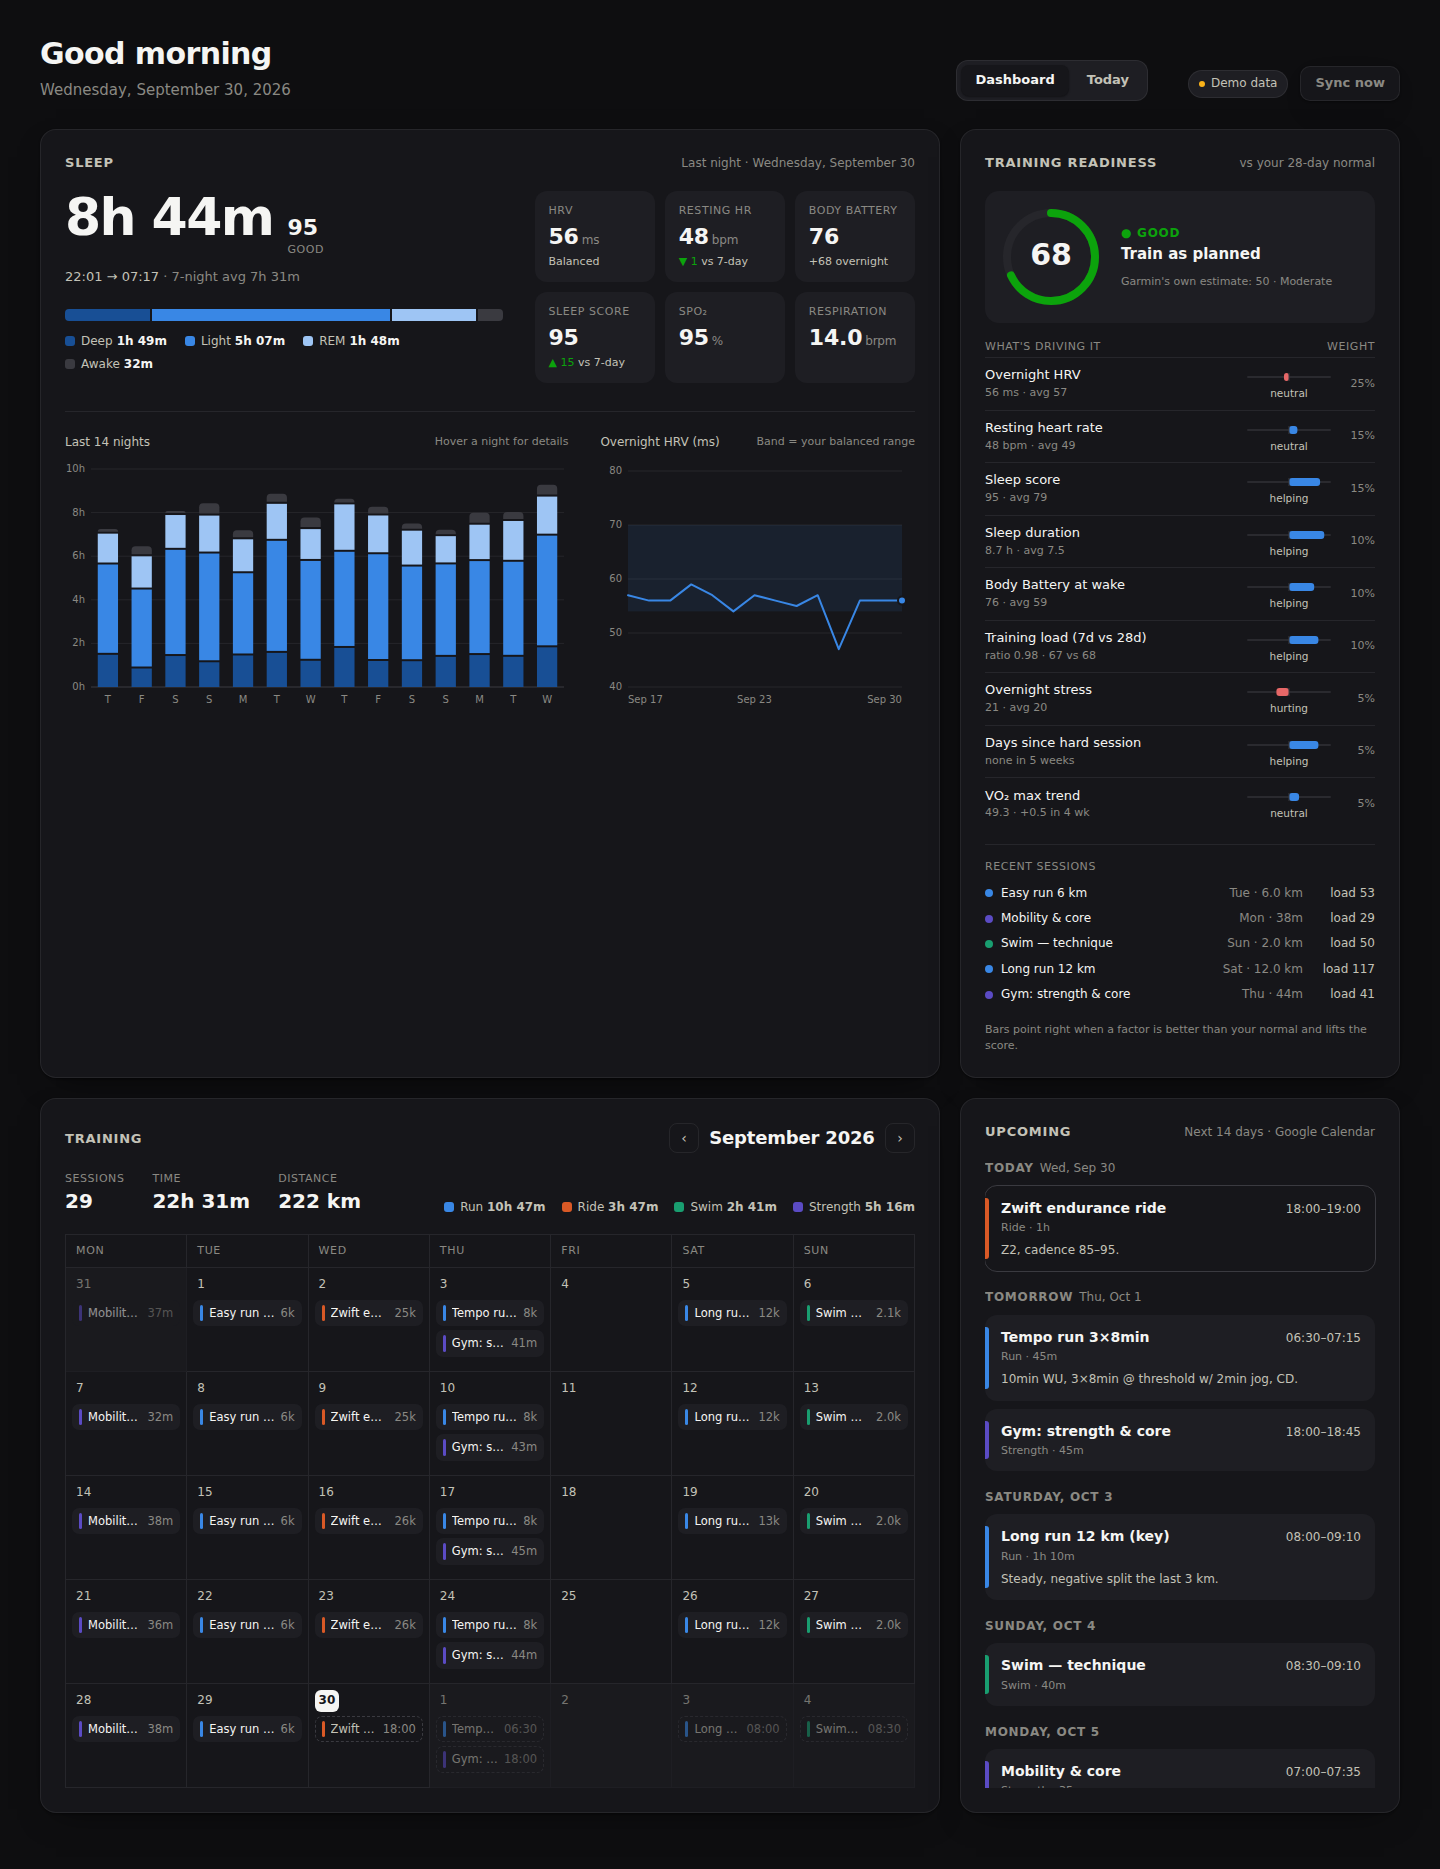
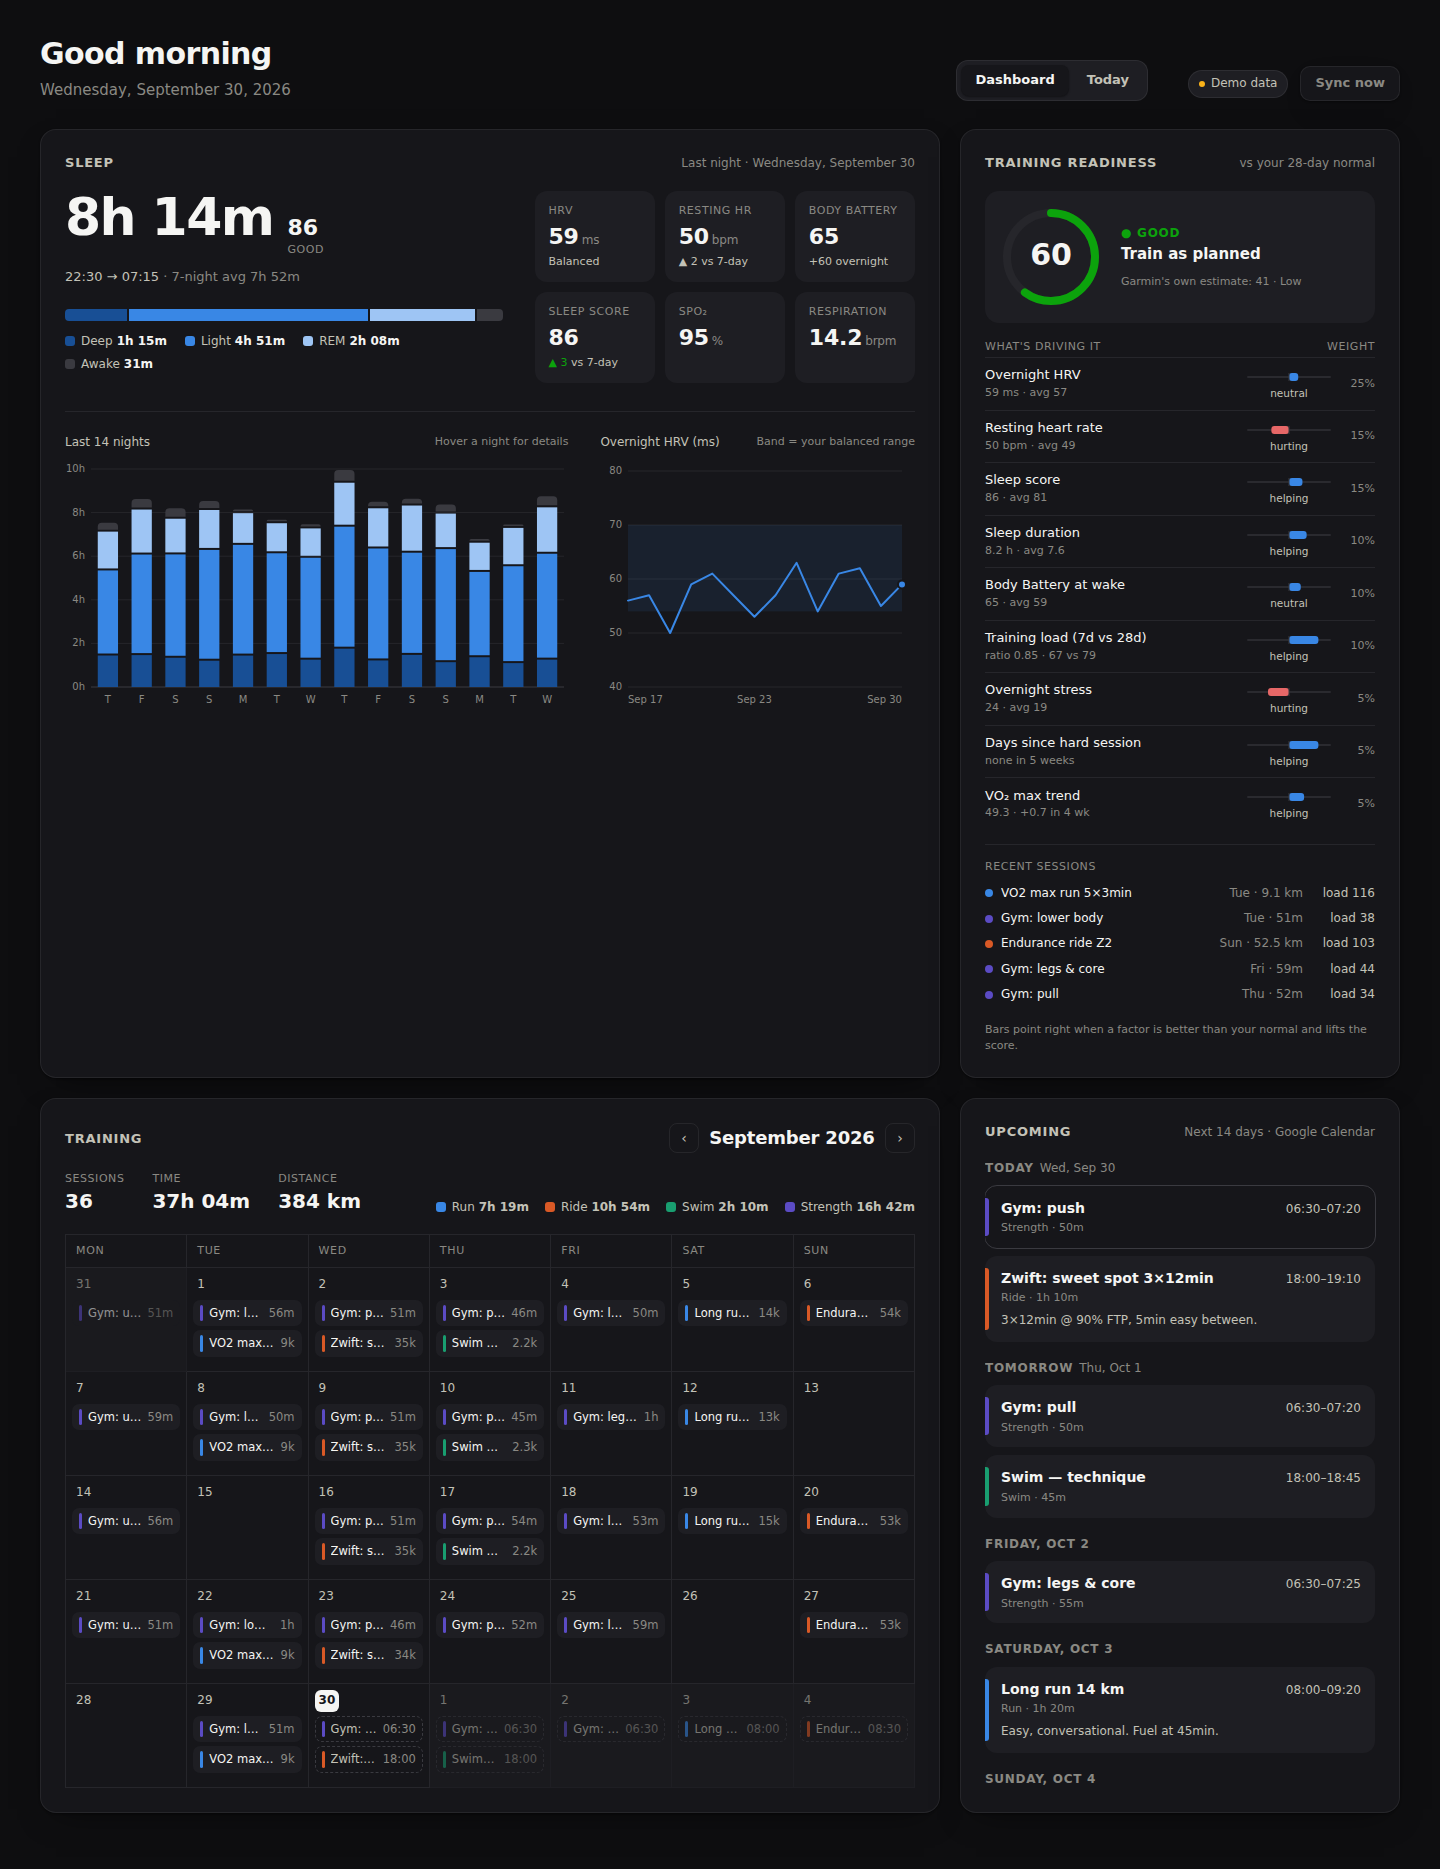
Personal weekly goals and quality-only key sessions
- goals.json: min 5 gym, 2 runs, 2 bike, 1 swim, 5 study sessions per week;
  scheduled sessions later in the week count toward "on track".
- Key sessions are now tempo / threshold / VO2 max / interval runs and
  structured bike sessions (sweet spot, FTP, over-unders, NxM reps); base
  sessions, swims and gym never count. A star in the title still overrides.
- Demo week reflects the new training pattern.

Claude-Session: https://claude.ai/code/session_01FaeG5KvLLdAzK14UMshkEA

diff --git a/frontend/src/components/DayTimeline.tsx b/frontend/src/components/DayTimeline.tsx
@@ -183,11 +183,16 @@ export function DayTimeline({
       )}
 
       <div className="timeline" style={{ height: (endH - startH) * HOUR_PX }}>
-        {hours.map((h) => (
-          <div key={h} className="hour" style={{ top: (h - startH) * HOUR_PX }}>
-            <span className="tnum">{String(h).padStart(2, "0")}:00</span>
-          </div>
-        ))}
+        {hours.map((h) => {
+          const top = (h - startH) * HOUR_PX;
+          // Hide the hour label when the "now" marker would sit on top of it.
+          const clash = day === todayIso && Math.abs(y(nowIso) - top) < 14;
+          return (
+            <div key={h} className="hour" style={{ top }}>
+              {!clash && <span className="tnum">{String(h).padStart(2, "0")}:00</span>}
+            </div>
+          );
+        })}
         <div className="lanes">
           {blocks.map((b) => {
             const top = y(b.start);

diff --git a/frontend/src/components/WeeklyChecklist.tsx b/frontend/src/components/WeeklyChecklist.tsx
@@ -79,7 +79,7 @@ export function WeeklyChecklist({
                 {!manual && <Progress g={g} />}
                 <div className="g-status" style={{ color: st.color }}>
                   <span aria-hidden>{st.icon}</span> {st.label}
-                  {g.planned > 0 && !g.done && <span className="muted"> · {fmt(g.planned)} {g.unit} still scheduled</span>}
+                  {g.planned > 0 && !g.done && <span className="muted"> · {fmt(g.planned)} {g.planned === 1 ? g.unit.replace(/s$/, "") : g.unit} still scheduled</span>}
                   {manual && !g.done && <span className="muted"> · tick it yourself</span>}
                 </div>
               </div>

diff --git a/backend/app/demo.py b/backend/app/demo.py
@@ -13,16 +13,19 @@ from typing import Any
 
 from .store import Store
 
-# A typical training week. weekday -> [(typeKey, title, (h, m), minutes, km, load)]
+# Weekly pattern: gym Mon-Fri, 2 runs, 2 rides, 1 swim; two quality (key) sessions.
+# weekday -> [(typeKey, title, (h, m), minutes, km, load)]
 _WEEK_PLAN: list[list[tuple]] = [
-    [("strength_training", "Mobility & core", (7, 0), 35, None, 25)],
-    [("running", "Easy run 6 km", (6, 30), 36, 6.0, 55)],
-    [("road_biking", "Zwift endurance ride", (18, 0), 60, 26.0, 70)],
-    [("running", "Tempo run 3×8min", (6, 30), 45, 8.0, 110),
-     ("strength_training", "Gym: strength & core", (18, 0), 45, None, 40)],
-    [],
-    [("running", "Long run 12 km (key)", (8, 0), 70, 12.0, 120)],
-    [("lap_swimming", "Swim — technique", (8, 30), 40, 2.0, 45)],
+    [("strength_training", "Gym: upper body", (6, 30), 55, None, 35)],
+    [("strength_training", "Gym: lower body", (6, 30), 55, None, 40),
+     ("running", "VO2 max run 5×3min", (18, 0), 50, 9.0, 130)],
+    [("strength_training", "Gym: push", (6, 30), 50, None, 35),
+     ("virtual_ride", "Zwift: sweet spot 3×12min", (18, 0), 70, 34.0, 110)],
+    [("strength_training", "Gym: pull", (6, 30), 50, None, 35),
+     ("lap_swimming", "Swim — technique", (18, 0), 45, 2.2, 45)],
+    [("strength_training", "Gym: legs & core", (6, 30), 55, None, 40)],
+    [("running", "Long run 14 km", (8, 0), 80, 14.0, 110)],
+    [("road_biking", "Endurance ride Z2", (8, 30), 120, 55.0, 100)],
 ]
 
 _WORK = [  # weekday (Mon-Fri) -> [(title, (h, m), minutes)]
@@ -45,7 +48,7 @@ _PERSONAL = {
 }
 _STUDY = {  # weekday -> [(title, (h, m), minutes)]
     0: [("Study — statistics module", (19, 30), 90)],
-    1: [("Lecture: research methods", (18, 0), 90)],
+    1: [("Lecture: research methods", (19, 30), 90)],
     3: [("Study — statistics module", (19, 30), 120)],
     5: [("Study — assignment 2", (10, 30), 120)],
     6: [("Revision — weekly notes", (15, 0), 60)],
@@ -177,7 +180,8 @@ def calendar_events(start: date, end: date) -> list[dict[str, Any]]:
             "all_day": False,
             "category": category,
             "sport": sport_from_title(title) if category == "training" else None,
-            "key_reason": key_reason(title, settings.key_session_keywords),
+            "key_reason": key_reason(title, category, sport_from_title(title) if category == "training" else None,
+                                     settings.key_session_keywords),
             "description": desc,
             "location": None,
         }
@@ -188,11 +192,10 @@ def calendar_events(start: date, end: date) -> list[dict[str, Any]]:
         wd = d.weekday()
         for _, title, hm, minutes, _, _ in _WEEK_PLAN[wd]:
             desc = {
-                "Mobility & core": "Hips, ankles, plank series.",
-                "Easy run 6 km": "Conversational pace, strides at the end.",
-                "Tempo run 3×8min": "10min WU, 3×8min @ threshold w/ 2min jog, CD.",
-                "Long run 12 km (key)": "Steady, negative split the last 3 km.",
-                "Zwift endurance ride": "Z2, cadence 85–95.",
+                "VO2 max run 5×3min": "15min WU, 5×3min @ 3k pace w/ 2min jog, CD.",
+                "Zwift: sweet spot 3×12min": "3×12min @ 90% FTP, 5min easy between.",
+                "Long run 14 km": "Easy, conversational. Fuel at 45min.",
+                "Endurance ride Z2": "Steady Z2, cadence 85–95.",
             }.get(title)
             out.append(ev(d, title, hm, minutes, "training", desc))
         if wd < 5:
@@ -204,7 +207,5 @@ def calendar_events(start: date, end: date) -> list[dict[str, Any]]:
 
     # A couple of one-off key dates relative to "now" so there's always something ahead.
     today = date.today()
-    out.append(ev(today + timedelta(days=9), "parkrun 5 km — race effort", (8, 0), 45, "training",
-                  "Time-trial to check fitness."))
     out.append(ev(today + timedelta(days=12), "Statistics exam", (9, 0), 120, "study"))
     return [e for e in out if start.isoformat() <= e["start"][:10] < end.isoformat()]

diff --git a/backend/app/calendar_feed.py b/backend/app/calendar_feed.py
@@ -74,12 +74,29 @@ def classify(title: str, extra: dict[str, list[str]] | None = None) -> str:
     return "other"
 
 
-def key_reason(title: str, keywords: list[str]) -> str | None:
-    """Why an event counts as a key session (placeholder rule: title keywords)."""
-    text = title.lower()
+# Key sessions = quality run/bike work. Base sessions (easy, long, Z2, endurance,
+# recovery) are never key unless the title also describes quality work.
+_KEY_RULES = [  # (pattern, reason for a run, reason for a ride)
+    (r"v\.?o\s?2|vo₂", "VO₂ max session", "VO₂ max session"),
+    (r"\btempo\b", "Tempo run", "Tempo ride"),
+    (r"\bthreshold\b|\blt\s?\d|\blactate\b", "Threshold session", "Threshold session"),
+    (r"sweet\s?spot|\bftp\b|over[\s-]?unders?|\bstructured\b", "Structured ride", "Structured ride"),
+    (r"\bintervals?\b|\brepeats\b|\breps\b|\bfartlek\b|\btrack\b|\d+\s*[x×]\s*\d+",
+     "Interval run", "Structured ride"),
+]
+
+
+def key_reason(title: str, category: str, sport: str | None, keywords: list[str] | None = None) -> str | None:
+    """Why a planned session counts as "key", or None for base / non-training events."""
     if "★" in title or "⭐" in title:
         return "starred"
-    for w in keywords:
+    if category != "training" or sport in ("swim", "strength"):
+        return None
+    text = title.lower()
+    for pattern, run_reason, ride_reason in _KEY_RULES:
+        if re.search(pattern, text):
+            return ride_reason if sport == "ride" else run_reason
+    for w in keywords or []:
         if _has_word(text, [w]):
             return f"“{w}” in title"
     return None
@@ -113,7 +130,7 @@ def parse_events(
                 "all_day": all_day,
                 "category": cat,
                 "sport": sport,
-                "key_reason": key_reason(title, key_keywords or []),
+                "key_reason": key_reason(title, cat, sport, key_keywords),
                 "description": str(ev.get("DESCRIPTION") or "").strip() or None,
                 "location": str(ev.get("LOCATION") or "").strip() or None,
             }

diff --git a/backend/tests/test_api.py b/backend/tests/test_api.py
@@ -1,3 +1,4 @@
+import json
 from dataclasses import replace
 from datetime import date, timedelta
 
@@ -8,14 +9,21 @@ from app.main import create_app
 from app.store import Store
 
 
-def make_client():
+def make_client(goals_path=None):
     cfg = replace(Settings(), demo_mode=True, sync_interval_minutes=0, backfill_days=60)
+    if goals_path:
+        cfg = replace(cfg, goals_path=goals_path)
     app = create_app(cfg, Store(":memory:"))
     return TestClient(app)
 
 
-def test_demo_end_to_end():
-    with make_client() as c:
+def test_demo_end_to_end(tmp_path):
+    goals = tmp_path / "goals.json"
+    goals.write_text(json.dumps({"goals": [
+        {"id": "gym", "metric": "activity_count", "sport": "strength", "target": 5},
+        {"id": "review", "metric": "manual"},
+    ]}))
+    with make_client(goals) as c:
         c.post("/api/sync")
         status = c.get("/api/status").json()
         assert status["mode"] == "demo" and status["last_error"] is None
@@ -44,7 +52,7 @@ def test_demo_end_to_end():
         assert keys and all(e["key_reason"] for e in keys)
 
         wk = c.get("/api/week").json()
-        assert wk["using_example"] and wk["goals"]
+        assert not wk["using_example"] and len(wk["goals"]) == 2
         manual = next(g for g in wk["goals"] if g["metric"] == "manual")
         assert not manual["done"]
         wk = c.post("/api/week/manual", json={"week_start": wk["week_start"], "goal_id": manual["id"], "done": True}).json()

diff --git a/backend/tests/test_calendar.py b/backend/tests/test_calendar.py
@@ -65,9 +65,20 @@ def test_classify():
     assert classify("Choir", {"study": ["choir"]}) == "study"
 
 
-def test_key_reason():
-    kws = ["key", "race", "long run"]
-    assert key_reason("Long run 20km", kws) == "“long run” in title"
-    assert key_reason("★ Threshold", kws) == "starred"
-    assert key_reason("Keyboard practice", kws) is None  # whole words only
-    assert key_reason("Easy run", kws) is None
+def test_key_sessions_are_quality_run_and_bike_work():
+    def key(title, category="training"):
+        from app.normalize import sport_from_title
+        return key_reason(title, category, sport_from_title(title) if category == "training" else None)
+
+    assert key("Tempo run 3×8min") == "Tempo run"
+    assert key("VO2 max 5x3min") == "VO₂ max session"
+    assert key("Track intervals 6×800m") == "Interval run"
+    assert key("Zwift: sweet spot 3×12min") == "Structured ride"
+    assert key("FTP test") == "Structured ride"
+    assert key("Bike over-unders") == "Structured ride"
+    # base sessions are never key
+    for base in ("Easy run 6 km", "Long run 20km", "Endurance ride Z2", "Recovery spin", "Swim 10×100m", "Gym: legs"):
+        assert key(base) is None, base
+    assert key("Statistics exam", "study") is None
+    assert key("★ Parkrun") == "starred"
+    assert key_reason("Hill session", "training", "run", ["hill"]) == "“hill” in title"

diff --git a/backend/app/planner.py b/backend/app/planner.py
@@ -154,6 +154,14 @@ def evaluate_goal(
             else:
                 progress += (a["distance_m"] or 0) / 1000
             items.append(f"{a['date']} · {a['name']}")
+        if metric == "activity_count":
+            # Sessions still on the calendar this week count toward "on track".
+            sport = goal.get("sport")
+            sports = sport if isinstance(sport, list) else [sport] if sport else None
+            planned = float(sum(
+                1 for e in events
+                if e["category"] == "training" and e["end"] > now_iso and (not sports or e.get("sport") in sports)
+            ))
     elif metric in ("calendar_hours", "calendar_count"):
         for e in filter(_event_filter(goal), events):
             amount = 1.0 if metric == "calendar_count" else event_hours(e)

diff --git a/backend/tests/test_planner.py b/backend/tests/test_planner.py
@@ -61,3 +61,11 @@ def test_manual_and_sleep_goals():
     sleep = {"2026-09-28": {"duration_s": 7.5 * 3600, "score": 80}, "2026-09-29": {"duration_s": 6 * 3600, "score": 70}}
     r = evaluate({"metric": "sleep_nights", "min_hours": 7, "target": 5}, datetime(2026, 9, 30), sleep=sleep)
     assert r["progress"] == 1
+
+
+def test_activity_count_counts_scheduled_sessions_as_planned():
+    runs = [act(1, "2026-09-28T07:00")]
+    events = [ev("Tempo", "2026-10-02T18:00", "2026-10-02T19:00"),
+              ev("Ride", "2026-10-03T08:00", "2026-10-03T10:00", sport="ride")]
+    r = evaluate({"metric": "activity_count", "sport": "run", "target": 2}, datetime(2026, 9, 30, 12), runs, events)
+    assert r["progress"] == 1 and r["planned"] == 1 and r["status"] == "on_track"

diff --git a/backend/app/normalize.py b/backend/app/normalize.py
@@ -21,7 +21,7 @@ _SPORT_BY_TYPE_KEY = [
 
 _SPORT_BY_TITLE = [
     ("run", r"\b(run|runs|running|jog|tempo|intervals?|parkrun|fartlek|strides|long run|easy run)\b"),
-    ("ride", r"\b(ride|bike|cycl\w*|zwift|spin|trainer|turbo)\b"),
+    ("ride", r"\b(ride|bike|cycl\w*|zwift|spin|trainer|turbo|ftp|sweet\s?spot|over[\s-]?unders?)\b"),
     ("swim", r"\b(swim\w*|pool|open water)\b"),
     ("strength", r"\b(strength|gym|weights?|lift\w*|core|mobility|s&c)\b"),
 ]

diff --git a/backend/app/config.py b/backend/app/config.py
@@ -42,7 +42,6 @@ class Settings:
     gcal_personal_urls: list[str] = field(default_factory=lambda: _list("GCAL_PERSONAL_ICS_URLS"))
     key_session_keywords: list[str] = field(
         default_factory=lambda: _list("KEY_SESSION_KEYWORDS")
-        or ["key", "race", "test", "exam", "deadline", "long run", "tempo", "interval"]
     )
     goals_path: Path = field(
         default_factory=lambda: BACKEND_DIR / os.getenv("GOALS_PATH", "goals.json")

diff --git a/README.md b/README.md
@@ -17,7 +17,7 @@ A personal desktop dashboard for Garmin data, training, work and study.
 **Today** tab:
 
 - **Your day**: an hour-by-hour plan from Google Calendar, colour-coded as training, work, study, reading, personal or other, with hours per area and a bar showing how the day is split. Planned training is checked against Garmin: ✓ done, or flagged if nothing matching was recorded. Garmin activities that weren't on the calendar show up too. Use ‹ › to move between days.
-- **Key sessions ahead**: sessions flagged as key. For now the rule is a title keyword or a ★ in the title (`KEY_SESSION_KEYWORDS`); it will be refined.
+- **Key sessions ahead**: your quality sessions for the next 3 weeks: tempo, threshold, VO₂ max and interval runs, and structured bike sessions (sweet spot, FTP, over-unders, or reps like `3×12min`). Base sessions (easy, long, Z2, endurance, recovery), swims and gym are never key. Put a ★ in any event title to mark it by hand, or add title words with `KEY_SESSION_KEYWORDS`.
 - **This week**: a checklist that ticks itself from Garmin and calendar data. Goals live in `backend/goals.json`; see below.
 
 ## Readiness score (v1)
@@ -70,7 +70,7 @@ npm run dev                                              # http://localhost:5173
    - If an area has its own calendar, put it in `GCAL_TRAINING_ICS_URLS`, `GCAL_WORK_ICS_URLS`, `GCAL_STUDY_ICS_URLS`, `GCAL_READING_ICS_URLS` or `GCAL_PERSONAL_ICS_URLS`. Every event in it gets that category.
    - Put mixed calendars in `GCAL_ICS_URLS`. Their events are categorised by title: sport words → training, "lecture/study/exam…" → study, "meeting/stand-up/work…" → work, "read/book…" → reading, "lunch/groceries/friends…" → personal. Add your own words with `*_KEYWORDS`.
    - The sport comes from the title too ("run", "Zwift", "swim", "gym", …).
-4. **Weekly goals**: `cp backend/goals.example.json backend/goals.json` and edit it. Each goal has a metric that the app measures for you:
+4. **Weekly goals** live in `backend/goals.json`. Currently: 5 gym sessions, 2 runs, 2 bike sessions, 1 swim and 5 study sessions, all minimums. Gym counts Garmin *strength* activities, and study counts finished study blocks in your calendar. Sessions still on the calendar later in the week count toward "on track". Each goal has a metric that the app measures for you:
 
    | metric | counts | options |
    |---|---|---|
